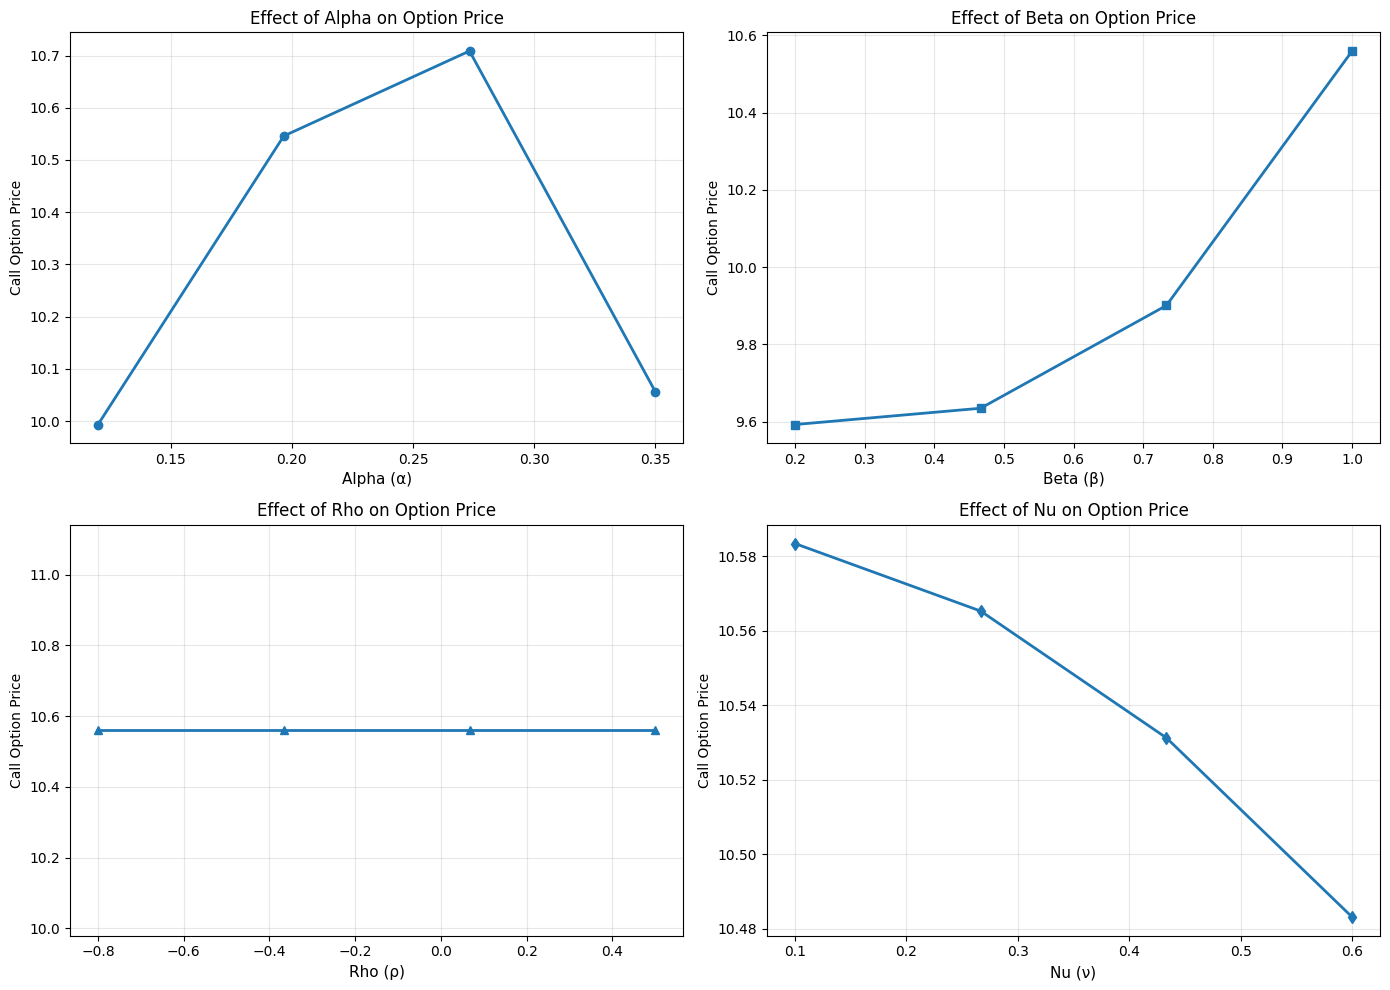
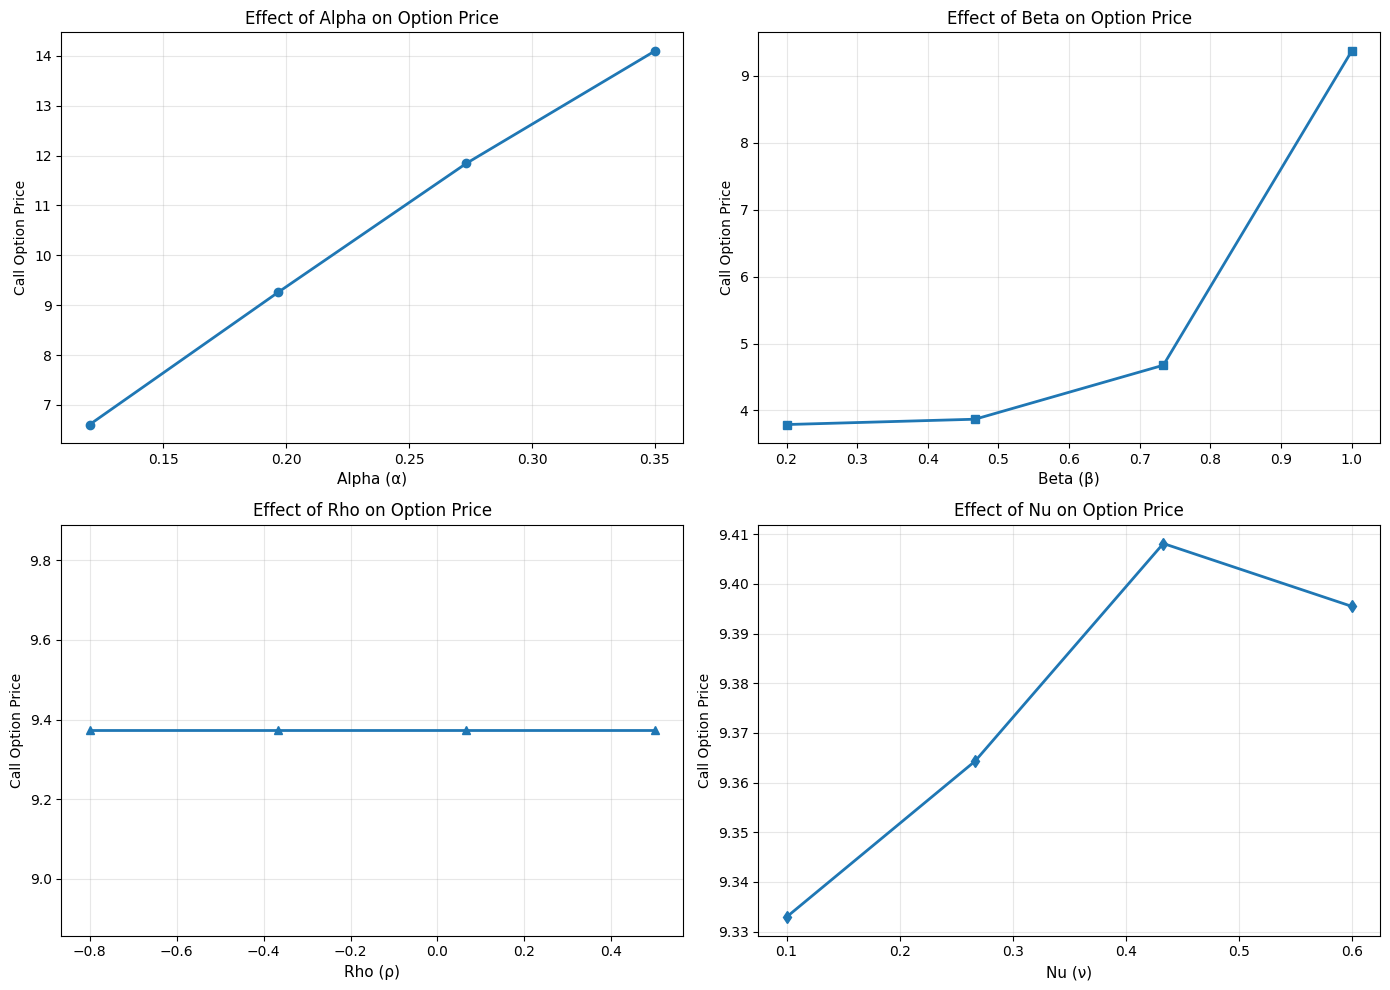
bug fixes

diff --git a/src/solvers/adi.py b/src/solvers/adi.py
@@ -81,9 +81,9 @@ class ADISolver:
             V[self.M, :] = 0.0
         
         if self.option_type == "call":
-            V[:, 0] = np.maximum(self.S * np.exp(self.r * tau) - self.K * np.exp(-self.r * tau), 0.0)
+            V[:, 0] = np.maximum(self.S - self.K * np.exp(-self.r * tau), 0.0)
         else:
-            V[:, 0] = np.maximum(self.K * np.exp(-self.r * tau) - self.S * np.exp(self.r * tau), 0.0)
+            V[:, 0] = np.maximum(self.K * np.exp(-self.r * tau) - self.S, 0.0)
         
         V[:, self.L] = V[:, self.L - 1]
         
@@ -97,7 +97,7 @@ class ADISolver:
         S_i = self.S[i]
         v_j = self.v[j]
         
-        sigma_ij = self.sabr.alpha * (S_i ** self.sabr.beta) * v_j
+        sigma_ij = (S_i ** self.sabr.beta) * v_j
         
         a_coeff = (sigma_ij ** 2) / (2 * self.dS ** 2)
         b_coeff = (self.r * S_i) / (2 * self.dS)
@@ -119,10 +119,40 @@ class ADISolver:
         S_i = self.S[i]
         v_j = self.v[j]
         
-        rho_coeff = (self.sabr.rho * self.sabr.alpha * self.sabr.nu * 
-                     (S_i ** self.sabr.beta) * v_j ** 2) / (4 * self.dS * self.dv)
+        rho_coeff = (self.sabr.rho * self.sabr.nu *
+             (S_i ** self.sabr.beta) * v_j ** 2) / (4 * self.dS * self.dv)
         
         return rho_coeff
+    
+    def interpolate_price(self, V, S0, v0):
+        """
+        Bilinear interpolation of the price surface at (S0, v0).
+        """
+        i = np.searchsorted(self.S, S0)
+        j = np.searchsorted(self.v, v0)
+
+        i = min(max(i, 1), len(self.S) - 1)
+        j = min(max(j, 1), len(self.v) - 1)
+
+        S_lo, S_hi = self.S[i - 1], self.S[i]
+        v_lo, v_hi = self.v[j - 1], self.v[j]
+
+        if S_hi == S_lo:
+            wS = 0.0
+        else:
+            wS = (S0 - S_lo) / (S_hi - S_lo)
+
+        if v_hi == v_lo:
+            wv = 0.0
+        else:
+            wv = (v0 - v_lo) / (v_hi - v_lo)
+
+        return (
+            (1 - wS) * (1 - wv) * V[i - 1, j - 1]
+            + wS * (1 - wv) * V[i, j - 1]
+            + (1 - wS) * wv * V[i - 1, j]
+            + wS * wv * V[i, j]
+        )
     
     def solve_step_s(self, V, theta=0.5):
         """
@@ -343,7 +373,7 @@ def price_sabr_option(S0: float, K: float, T: float, r: float,
     if S_max is None:
         S_max = K * 3
     if v_max is None:
-        v_max = alpha * S0 * 3
+        v_max = max(1.0, 4.0 * alpha)
     
     sabr = SABRParams(alpha=alpha, beta=beta, rho=rho, nu=nu)
     grid = Grid2DParams(S_max=S_max, v_max=v_max, M=M, L=L, N=N)
@@ -357,28 +387,8 @@ def price_sabr_option(S0: float, K: float, T: float, r: float,
         print(f"  Grid: M={M}, L={L}, N={N}")
     
     V, S, v = solver.solve(verbose=verbose)
-    
+
     v0 = alpha
-    idx_S = np.searchsorted(S, S0)
-    idx_v = np.searchsorted(v, v0)
-    
-    if idx_S >= len(S) or idx_v >= len(v):
-        price = V[-1, -1]
-    else:
-        if idx_S > 0 and idx_S < len(S) - 1 and idx_v > 0 and idx_v < len(v) - 1:
-            S_lo, S_hi = S[idx_S - 1], S[idx_S]
-            v_lo, v_hi = v[idx_v - 1], v[idx_v]
-            
-            w_S = (S0 - S_lo) / (S_hi - S_lo)
-            w_v = (v0 - v_lo) / (v_hi - v_lo)
-            
-            price = (
-                (1 - w_S) * (1 - w_v) * V[idx_S - 1, idx_v - 1]
-                + w_S * (1 - w_v) * V[idx_S, idx_v - 1]
-                + (1 - w_S) * w_v * V[idx_S - 1, idx_v]
-                + w_S * w_v * V[idx_S, idx_v]
-            )
-        else:
-            price = V[idx_S, idx_v]
-    
+    price = solver.interpolate_price(V, S0, v0)
+
     return price, V, S, v

diff --git a/src/core.py b/src/core.py
@@ -20,10 +20,10 @@ class GridParams:
 
 @dataclass
 class SABRParams:
-    alpha: float  # volatility of volatility (0 to infty, typically 0.1-1.0)
+    alpha: float  # initial volatility level sigma_0 used as v0 in this implementation
     beta: float   # elasticity (0 to 1, CEV parameter; 0=normal, 1=lognormal)
     rho: float    # correlation between asset and volatility ([-1, 1])
-    nu: float     # volatility of volatility (0 to infty, typically 0.1-1.0)
+    nu: float     # volatility of volatility
     
     def __post_init__(self):
         if not (0 <= self.beta <= 1):
